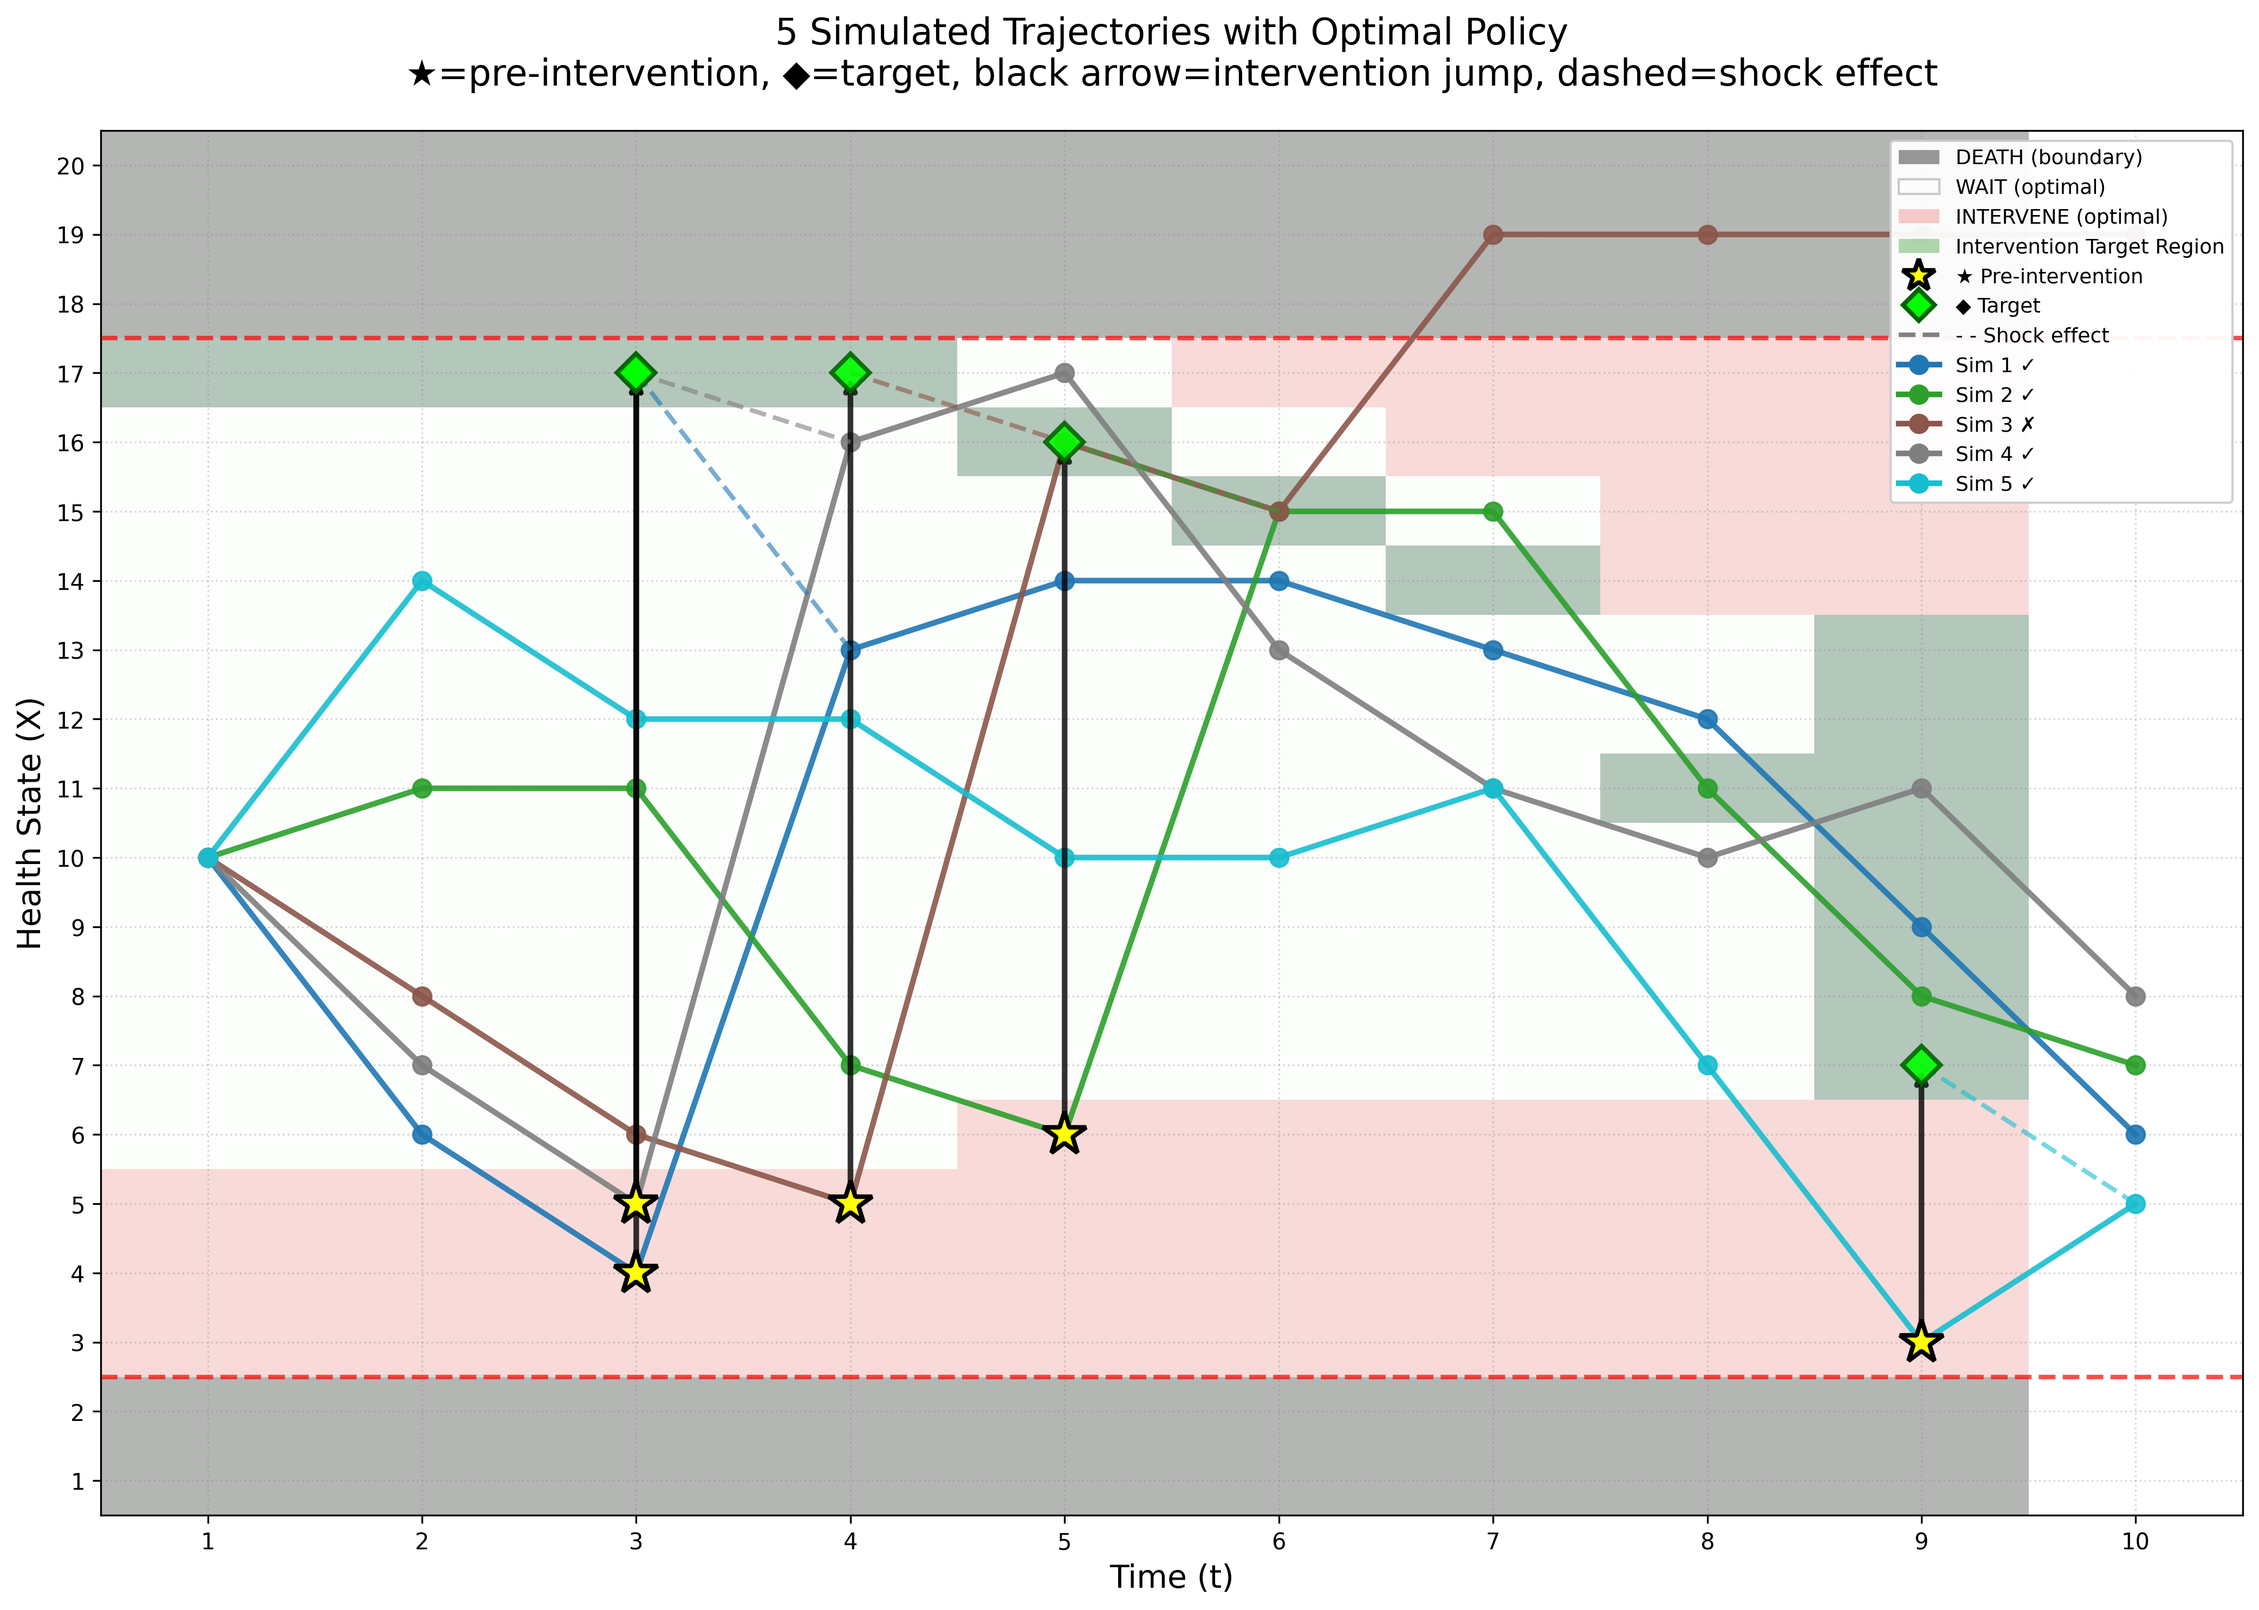
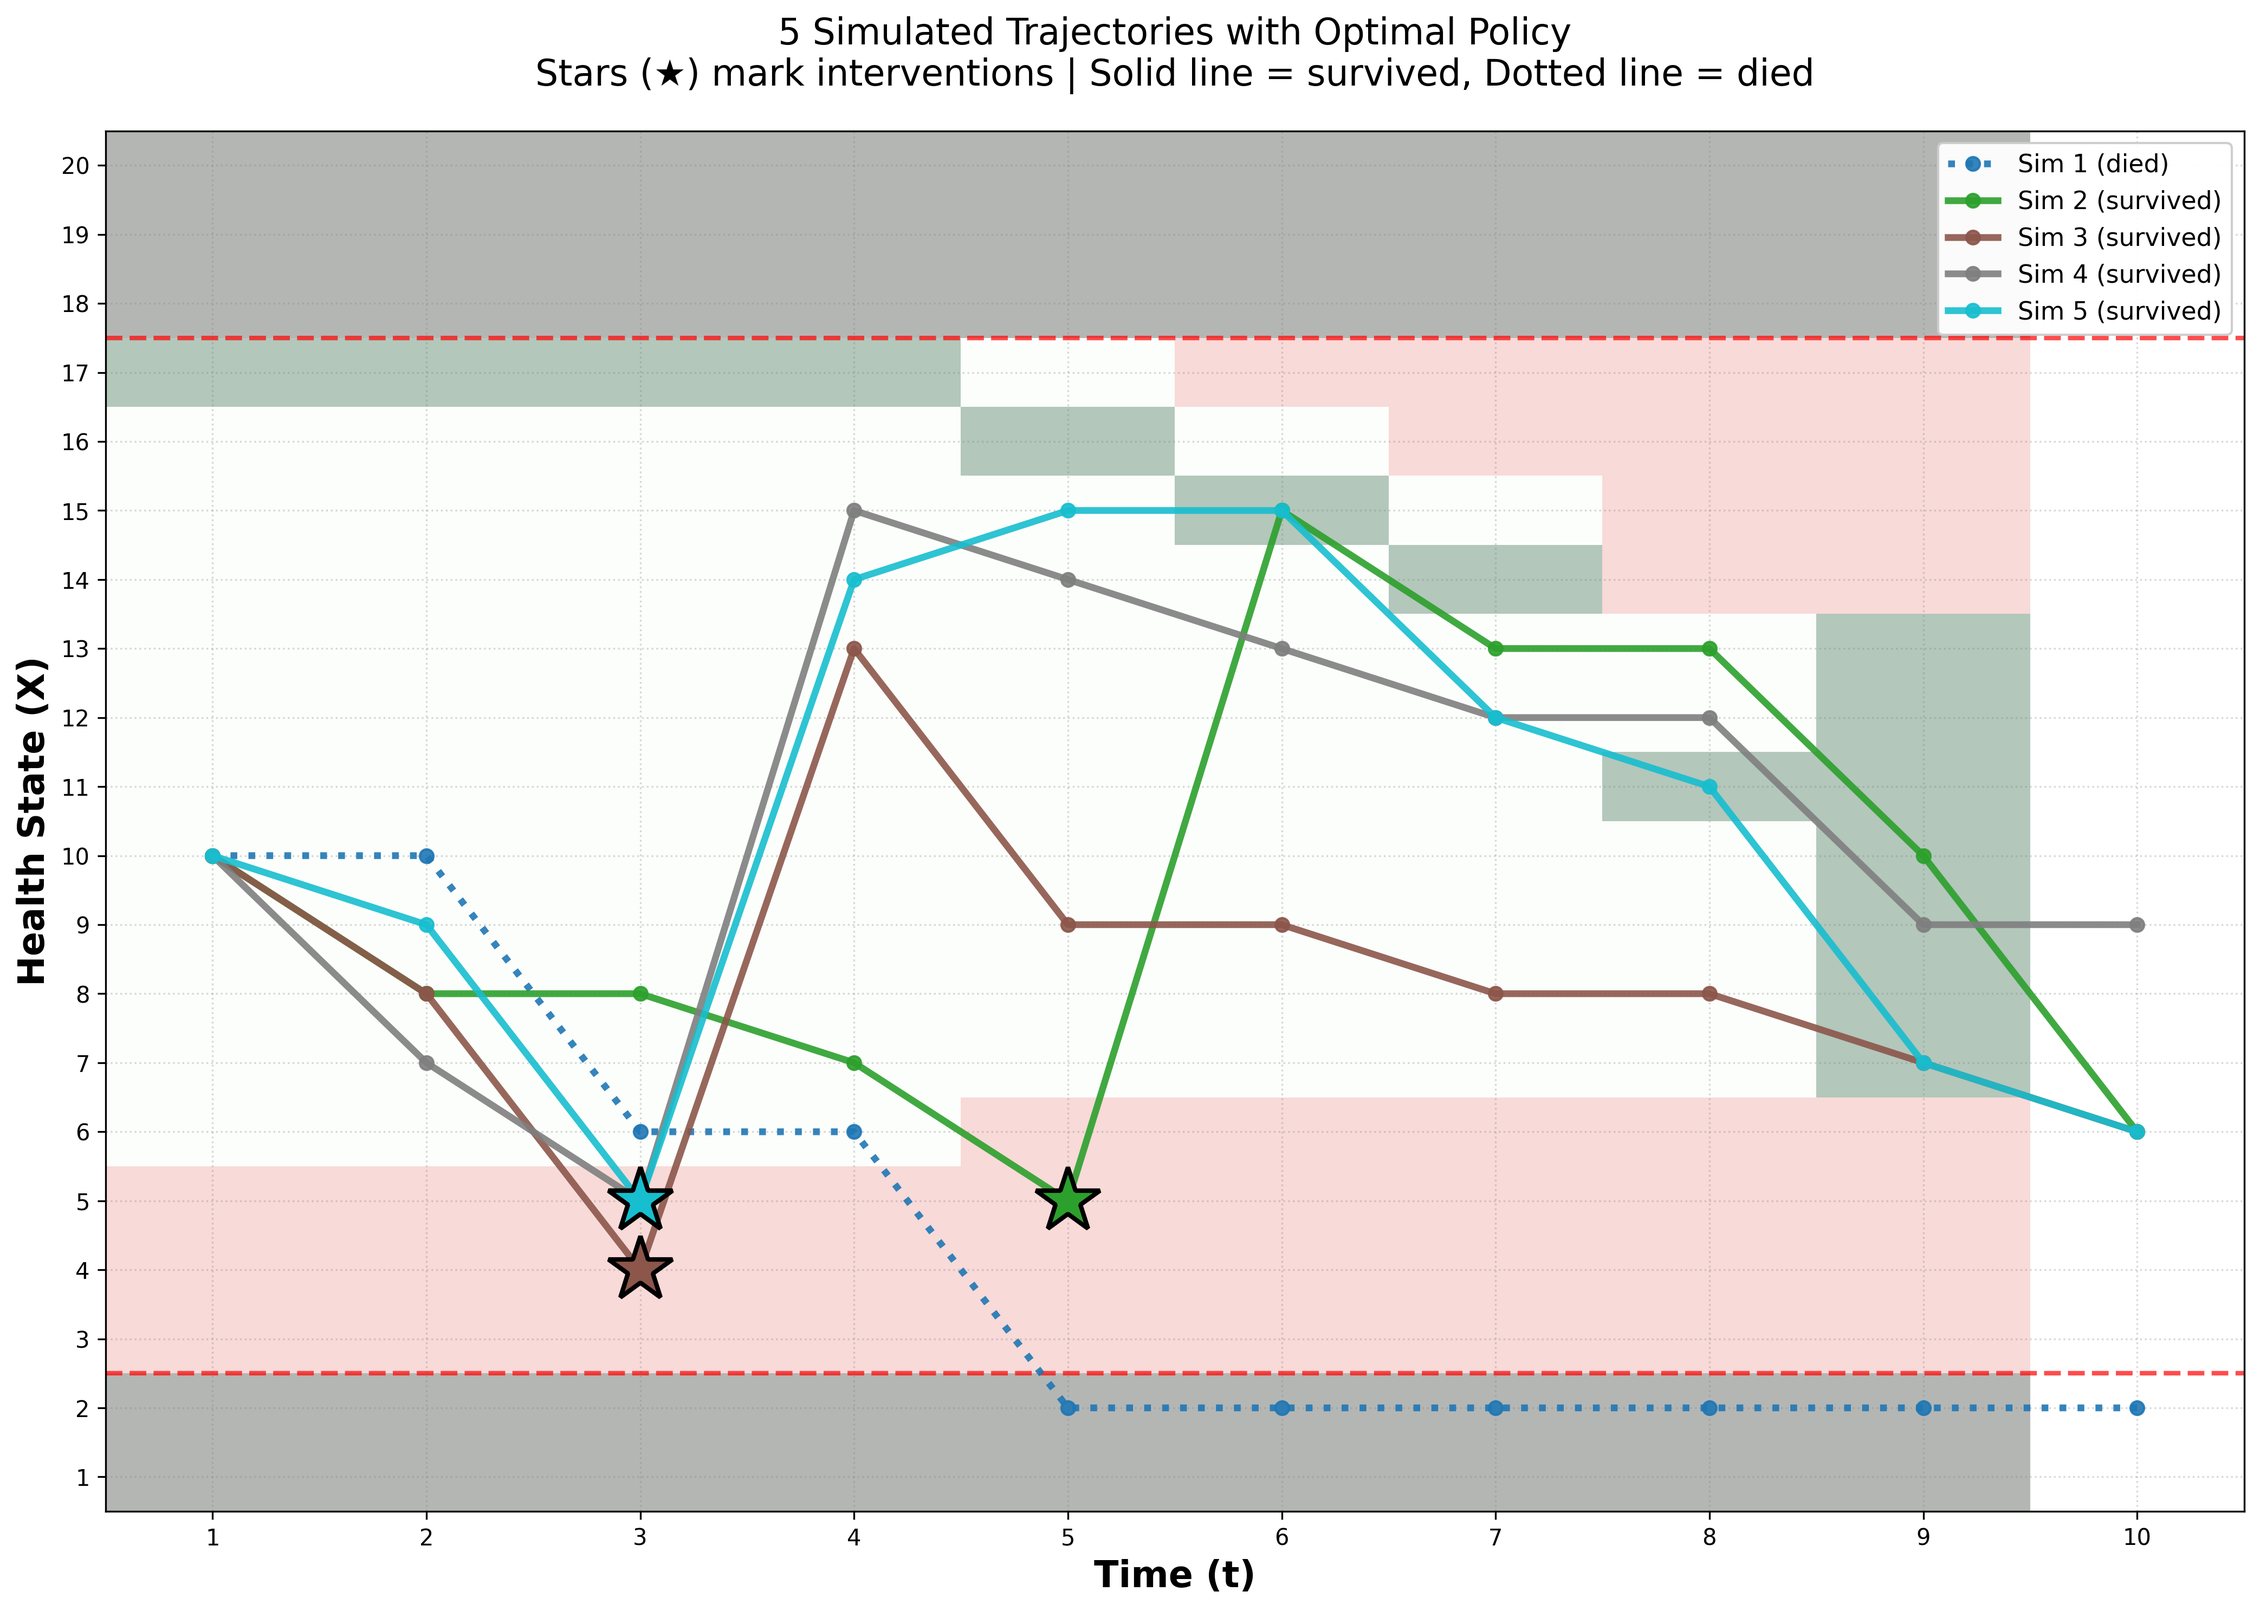
bit better

diff --git a/PhaseBOptimalStoppingProb/Scripts/Simple2D.py b/PhaseBOptimalStoppingProb/Scripts/Simple2D.py
@@ -302,7 +302,7 @@ class SimplifiedOptimalStopping:
         return filename
 
     def simulate_trajectories(self, n_sims=5, filename='intervention_simulations.png'):
-        
+    
         import os
         script_dir = os.path.dirname(os.path.abspath(__file__))
         filename = os.path.join(script_dir, filename)
@@ -325,9 +325,8 @@ class SimplifiedOptimalStopping:
                 'survived': None
             }
             
-            # Initialize
+            # Initialize - start at X0 at t=1
             t = 1
-            U_current = np.random.choice(self.U_values, p=self.U_probs)
             X_current = self.X0
             I_current = 0
             
@@ -336,7 +335,10 @@ class SimplifiedOptimalStopping:
             
             # Run trajectory
             while t < self.T:
-                # Get policy for current state
+                # Sample the shock that arrives NOW
+                U_current = np.random.choice(self.U_values, p=self.U_probs)
+                
+                # Get policy for current state (t, X_current, U_current, I_current)
                 policy = self.policy.get((t, X_current, U_current, I_current), 'WAIT')
                 
                 # Execute action
@@ -347,10 +349,8 @@ class SimplifiedOptimalStopping:
                     X_current = X_target
                     I_current = 1
                 
-                # Sample next shock and transition
-                U_next = np.random.choice(self.U_values, p=self.U_probs)
-                X_current = self.transition(X_current, U_next)
-                U_current = U_next
+                # Transition to next state using the current shock
+                X_current = self.transition(X_current, U_current)
                 
                 t += 1
                 trajectory['t'].append(t)
@@ -363,7 +363,7 @@ class SimplifiedOptimalStopping:
         # Create visualization
         fig, ax = plt.subplots(figsize=(14, 10))
         
-        # First, recreate the heatmap background
+        # Create heatmap background (consistent with create_2d_heatmap)
         times = np.arange(1, self.T)
         states = np.arange(self.X_min, self.X_max + 1)
         
@@ -402,7 +402,7 @@ class SimplifiedOptimalStopping:
                     if 0 <= target_X_idx < len(states):
                         target_region[target_X_idx, t_idx] = 1
         
-        # Plot heatmap with WHITE for WAIT
+        # Plot heatmap with WHITE for WAIT (same as create_2d_heatmap)
         from matplotlib.colors import ListedColormap
         colors = ['black', 'white', 'lightcoral']
         cmap = ListedColormap(colors)
@@ -410,18 +410,18 @@ class SimplifiedOptimalStopping:
         ax.imshow(policy_matrix, aspect='auto', origin='lower',
                 extent=[times[0]-0.5, times[-1]+0.5, 
                         states[0]-0.5, states[-1]+0.5],
-                cmap=cmap, vmin=-1, vmax=1, alpha=0.4)
+                cmap=cmap, vmin=-1, vmax=1, alpha=0.4, zorder=1)
         
         ax.imshow(target_region, aspect='auto', origin='lower',
                 extent=[times[0]-0.5, times[-1]+0.5,
                         states[0]-0.5, states[-1]+0.5],
-                cmap='Greens', alpha=0.3, vmin=0, vmax=1)
+                cmap='Greens', alpha=0.3, vmin=0, vmax=1, zorder=1)
         
-        # Add death zone boundaries
+        # Death zone boundaries (same as create_2d_heatmap)
         ax.axhline(y=self.safe_min - 0.5, color='red', linestyle='--', 
-                linewidth=2, alpha=0.7)
+                linewidth=2, alpha=0.7, zorder=2)
         ax.axhline(y=self.safe_max + 0.5, color='red', linestyle='--', 
-                linewidth=2, alpha=0.7)
+                linewidth=2, alpha=0.7, zorder=2)
         
         # Plot trajectories
         colors_sim = plt.cm.tab10(np.linspace(0, 1, n_sims))
@@ -432,48 +432,28 @@ class SimplifiedOptimalStopping:
             intervened_at = traj['intervened_at']
             intervention_target = traj['intervention_target']
             
-            # Plot line
-            label = f"Sim {idx+1}"
-            if survived:
-                label += " ✓"
-            else:
-                label += " ✗"
+            # Plot line with thicker width
+            linestyle = '-' if survived else ':'
+            label = f"Sim {idx+1} ({'survived' if survived else 'died'})"
             
             ax.plot(traj['t'], traj['X'], 'o-', color=color, 
-                linewidth=2.5, markersize=8, alpha=0.9, label=label)
+                linewidth=3, markersize=6, alpha=0.9, label=label, 
+                linestyle=linestyle, zorder=10)
             
-            # Mark intervention with markers and continuity
+            # Mark intervention simply with a large star
             if intervened_at is not None:
                 intervened_idx = traj['t'].index(intervened_at)
                 
-                # Yellow star at PRE-intervention position
+                # Large star at intervention point
                 ax.plot(traj['t'][intervened_idx], traj['X'][intervened_idx], 
-                    '*', color='yellow', markersize=20, markeredgecolor='black',
-                    markeredgewidth=2, zorder=10)
-                
-                # Green diamond at INTERVENTION TARGET
-                ax.plot(traj['t'][intervened_idx], intervention_target, 
-                    'D', color='lime', markersize=12, markeredgecolor='darkgreen',
-                    markeredgewidth=2, zorder=10, alpha=0.9)
-                
-                # BLACK arrow showing intervention jump
-                ax.annotate('', 
-                    xy=(traj['t'][intervened_idx], intervention_target),
-                    xytext=(traj['t'][intervened_idx], traj['X'][intervened_idx]),
-                    arrowprops=dict(arrowstyle='->', color='black', lw=2.5, alpha=0.8))
-                
-                # Dashed line from diamond to next timestep (showing shock effect)
-                if intervened_idx + 1 < len(traj['t']):
-                    next_t = traj['t'][intervened_idx + 1]
-                    next_X = traj['X'][intervened_idx + 1]
-                    ax.plot([intervened_at, next_t], [intervention_target, next_X], 
-                           '--', color=color, linewidth=2, alpha=0.6, zorder=5)
+                    '*', color=color, markersize=30, markeredgecolor='black',
+                    markeredgewidth=2, zorder=15)
         
         # Labels and formatting
-        ax.set_xlabel('Time (t)', fontsize=14)
-        ax.set_ylabel('Health State (X)', fontsize=14)
+        ax.set_xlabel('Time (t)', fontsize=16, fontweight='bold')
+        ax.set_ylabel('Health State (X)', fontsize=16, fontweight='bold')
         ax.set_title(f'{n_sims} Simulated Trajectories with Optimal Policy\n' +
-                    '★=pre-intervention, ◆=target, black arrow=intervention jump, dashed=shock effect',
+                    'Stars (★) mark interventions | Solid line = survived, Dotted line = died',
                     fontsize=16, pad=20)
         
         ax.set_xticks(range(1, self.T + 1))
@@ -481,41 +461,13 @@ class SimplifiedOptimalStopping:
         ax.set_xlim(0.5, self.T + 0.5)
         ax.set_ylim(self.X_min - 0.5, self.X_max + 0.5)
         
-        ax.grid(True, alpha=0.3, linestyle=':', color='gray')
+        ax.grid(True, alpha=0.3, linestyle=':', color='gray', zorder=0)
         
-        # Add legend
-        from matplotlib.patches import Patch
-        legend_elements = [
-            Patch(facecolor='black', alpha=0.4, label='DEATH (boundary)'),
-            Patch(facecolor='white', edgecolor='gray', alpha=0.4, label='WAIT (optimal)'),
-            Patch(facecolor='lightcoral', alpha=0.4, label='INTERVENE (optimal)'),
-            Patch(facecolor='green', alpha=0.3, label='Intervention Target Region'),
-            plt.Line2D([0], [0], marker='*', color='w', markerfacecolor='yellow', 
-                       markersize=15, markeredgecolor='black', markeredgewidth=2, 
-                       linestyle='', label='★ Pre-intervention'),
-            plt.Line2D([0], [0], marker='D', color='w', markerfacecolor='lime', 
-                       markersize=10, markeredgecolor='darkgreen', markeredgewidth=2, 
-                       linestyle='', label='◆ Target'),
-            plt.Line2D([0], [0], color='gray', linewidth=2, linestyle='--',
-                       label='- - Shock effect'),
-        ]
-
-        # Add trajectory legend elements
-        for idx in range(n_sims):
-            color = colors_sim[idx]
-            survived = trajectories[idx]['survived']
-            label = f"Sim {idx+1}"
-            if survived:
-                label += " ✓"
-            else:
-                label += " ✗"
-            legend_elements.append(plt.Line2D([0], [0], color=color, linewidth=2.5, 
-                                            marker='o', markersize=8, label=label))
-
-        ax.legend(handles=legend_elements, loc='upper right', fontsize=9, framealpha=0.95)
+        # Simple legend
+        ax.legend(loc='upper right', fontsize=11, framealpha=0.95)
         
         plt.tight_layout()
-        plt.savefig(filename, dpi=300, bbox_inches='tight')
+        plt.savefig(filename, dpi=300, bbox_inches='tight', facecolor='white')
         plt.close()
         
         print(f"Simulation plot saved to {filename}")
